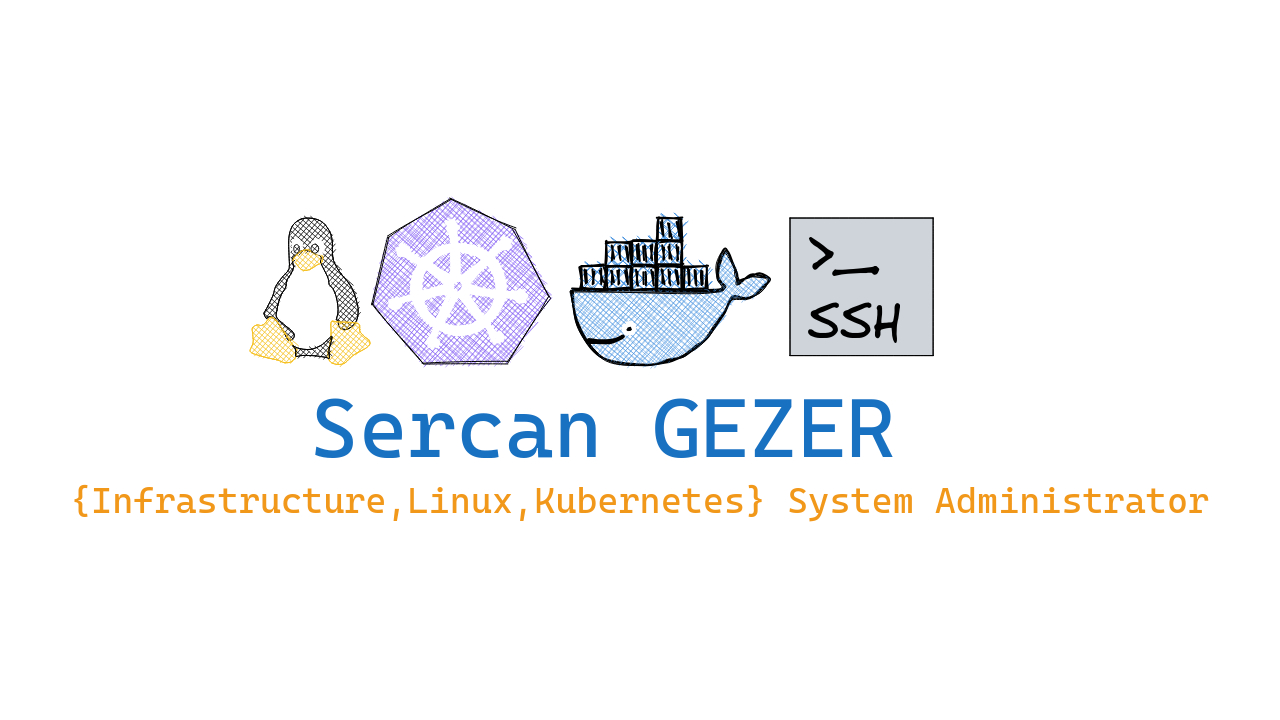
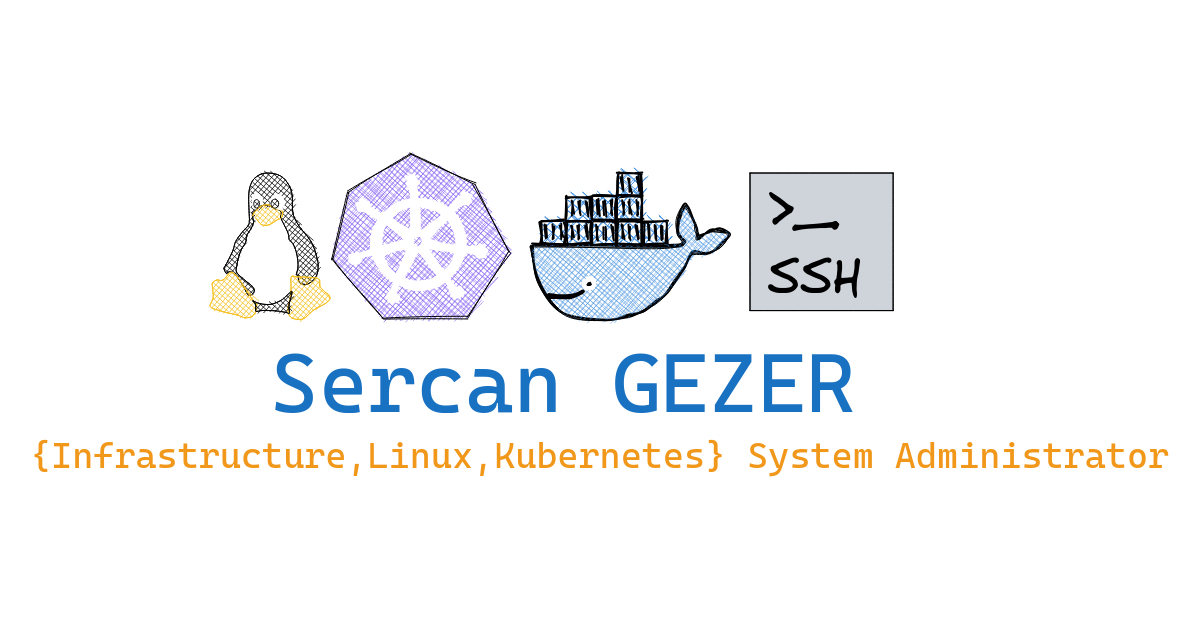
bu sefer cover photo fixledim

Changed region(s): [[0.0308, 0.5429, 0.9867, 0.754], [0.1542, 0.2413, 0.7708, 0.5127]]

diff --git a/_includes/head.html b/_includes/head.html
@@ -24,13 +24,53 @@
       {% endunless %}
     </title>
   
-    {% if page.image %}
-      <meta content="{{ page.image }}" property="og:image">
-    {% else %}
-      <meta content="{{ site.url }}/assets/blog-cover-photo.jpg" property="og:image">
-    {% endif %}
-  
+<!-- OpenGraph Meta Tags -->
+{% if page.image %}
+  <meta content="{{ page.image }}" property="og:image">
+{% else %}
+  <meta content="{{ site.url }}/assets/blog-cover-photo.jpg" property="og:image">
+{% endif %}
 
+<meta property="og:url" content="{{ site.url }}{{ page.url }}">
+<meta property="og:type" content="website">
+
+{% if page.title %}
+  <meta property="og:title" content="{{ page.title }}">
+{% else %}
+  <meta property="og:title" content="{{ site.title }}">
+{% endif %}
+
+{% if page.description %}
+  <meta property="og:description" content="{{ page.description }}">
+{% else %}
+  <meta property="og:description" content="{{ site.description }}">
+{% endif %}
+<!-- OpenGraph Meta Tags -->
+
+<!-- Twitter Meta Tags -->
+<meta name="twitter:card" content="summary_large_image">
+<meta name="twitter:site" content="@SercanGEZER_TR">
+<meta name="twitter:creator" content="@SercanGEZER_TR">
+<meta property="twitter:domain" content="{{ site.url }}">
+{% if page.title %}
+  <meta name="twitter:title" content="{{ page.title }}">
+{% else %}
+  <meta name="twitter:title" content="{{ site.title }}">
+{% endif %}
+{% if page.url %}
+  <meta name="twitter:url" content="{{ site.url }}{{ page.url }}">
+{% endif %}
+{% if page.description %}
+  <meta name="twitter:description" content="{{ page.description }}">
+{% else %}
+  <meta name="twitter:description" content="{{ site.description }}">
+{% endif %}
+{% if page.image %}
+      <meta content="{{ page.image }}" name="twitter:image">
+{% else %}
+      <meta content="{{ site.url }}/assets/blog-cover-photo.jpg" name="twitter:image">
+{% endif %}
+<!-- Twitter Meta Tags -->
   
     <link rel="shortcut icon" href="{{ site.url }}{{ site.baseurl }}/favicon.png">
     <link rel="alternate" type="application/atom+xml" title="{{ site.title }}" href="{{ site.url }}{{ site.baseurl }}/atom.xml">
